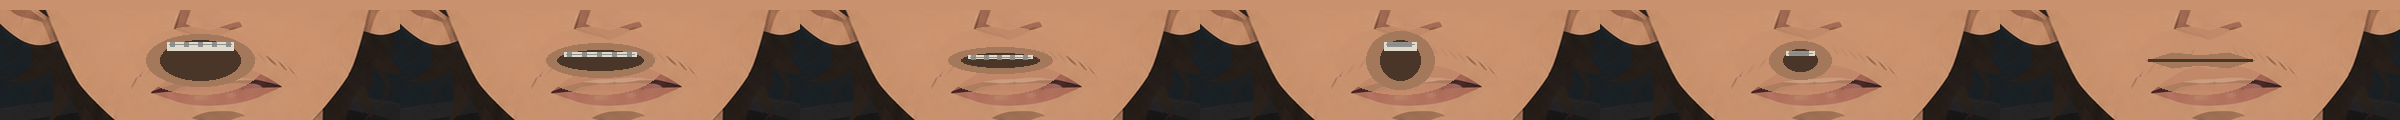
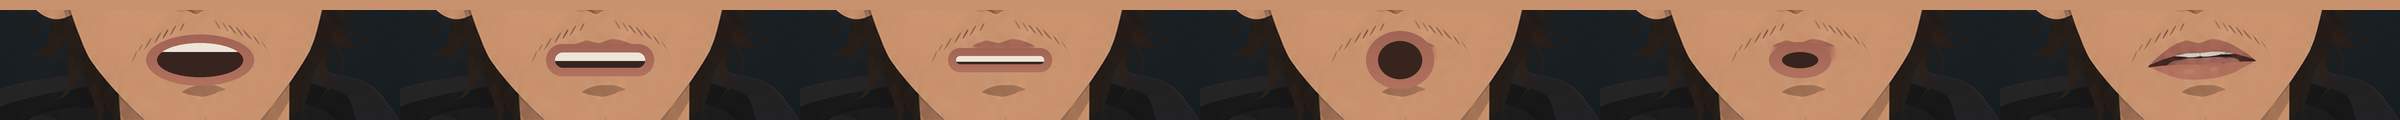
Elenco: folhas de visemas no estilo da Lívia, geradas de cada retrato
Claude-Session: https://claude.ai/code/session_01Ca2uey9G1wANVTd1hU6UsR

diff --git a/src/characters/characters.ts b/src/characters/characters.ts
@@ -16,11 +16,8 @@ const mouth = (cx:number,rimY:number,halfWidth:number,bottom:number,arch=2,maxOp
  * public/characters/<id>/ (expressions/*.jpg, visemes.png). As marcas de olhos e o alinhamento de cada expressão
  * vêm de castMarks.json (scripts/measure-cast.py); a boca usa a do retrato neutro acompanhando o deslocamento dos olhos.
  */
-/**
- * As folhas de visemas do pacote (boca preta oval com dentes) não combinam com o estilo dos retratos e deixam halo sobre barba
- * e bigode. O elenco usa a boca do próprio retrato: o lábio de baixo e o queixo descem em tiras. Ligue quando houver visemas melhores.
- */
-const USE_VISEMES = false
+/** Folhas de visemas do elenco: geradas de cada retrato oficial por scripts/make-cast-visemes.py, no mesmo formato da Lívia. */
+const USE_VISEMES = true
 const cast = (id:string, name:string, m:{cx:number,rim:number,half:number,bottom:number,open:number}):CharacterDef => {
   const marks = castMarks[id as keyof typeof castMarks] as unknown as Record<string,{eyeMid:[number,number],scale:number,eyes:[number,number,number,number][],mouthDy:number}>
   const n = marks.neutral
@@ -39,7 +36,7 @@ const cast = (id:string, name:string, m:{cx:number,rim:number,half:number,bottom
     portrait:{ width:900, height:1200, crop:{ x:80, y:10, w:740, h:800 }, eyeMid:n.eyeMid },
     assets,
     faceMask:`${base}characters/${id}/face-mask.png`,
-    visemes:USE_VISEMES ? { src:`${base}characters/${id}/visemes.png`, cellW:400, cellH:120, order:['A','E','I','O','U','M'], center:[200,60], lipWidth:108, reach:.5 } : undefined,
+    visemes:USE_VISEMES ? { src:`${base}characters/${id}/visemes.png`, cellW:400, cellH:120, order:['A','E','I','O','U','M'], center:[200,60], lipWidth:108, reach:1 } : undefined,
     face:{ cx:n.eyeMid[0], cy:n.eyeMid[1]+18, size:420 }
   }
 }

diff --git a/scripts/make-cast-visemes.py b/scripts/make-cast-visemes.py
@@ -1,0 +1,132 @@
+#!/usr/bin/env python3
+"""
+Gera a folha de visemas (A E I O U M, 6 células de 400x120 = 2400x120) de cada personagem do elenco no mesmo formato e
+com as mesmas medidas da folha da Lívia (public/characters/livia/visemes.png).
+
+Cada célula é o próprio retrato oficial recortado em volta da boca (cabelo, barba, bigode e pele ficam como no retrato),
+com os lábios apagados (inpaint) e a boca da vogal desenhada com as cores dos lábios daquele personagem: anel de lábio,
+interior escuro e dentes. A célula M (lábios fechados) é o recorte original, sem apagar nada.
+
+Uso: python3 scripts/make-cast-visemes.py   (requer pillow, numpy, opencv-python-headless)
+"""
+import numpy as np, cv2
+from PIL import Image, ImageDraw
+
+ROOT = __file__.rsplit('/scripts/', 1)[0]
+# centro da boca (cx), linha entre os lábios (rim) e meia-largura, medidos no retrato neutro (iguais aos de characters.ts)
+CAST = {
+    'caio':   (454, 559, 54),
+    'teo':    (452, 570, 47),
+    'rafael': (450, 576, 45),
+    'cida':   (442, 599, 57),
+    'jorge':  (458, 551, 50),
+}
+# medidas externas das bocas da Lívia (largura, altura) e abertura interna (largura, altura), em px da célula 400x120
+SHAPES = {
+    'A': dict(kind='ellipse', outer=(108, 51), inner=(86, 34), teeth=.26),
+    'E': dict(kind='round',   outer=(108, 32), inner=(90, 15), teeth=.55),
+    'I': dict(kind='round',   outer=(104, 24), inner=(88, 8),  teeth=.7),
+    'O': dict(kind='ellipse', outer=(68, 58),  inner=(44, 38), teeth=0),
+    'U': dict(kind='ellipse', outer=(62, 36),  inner=(36, 16), teeth=0),
+}
+CW, CH, CX, CY = 400, 120, 200, 60
+SS = 4   # supersampling do desenho
+
+def lips_and_skin(img, cx, rim, half):
+    a = img.astype(np.float32)
+    h, w = a.shape[:2]
+    sk = []
+    for sx in (-1, 1):
+        x0 = int(cx + sx * half * 1.08); x1 = int(cx + sx * half * 1.3)
+        sk.append(a[rim - 4:rim + 14, min(x0, x1):max(x0, x1)].reshape(-1, 3))
+    skin = np.median(np.concatenate(sk), axis=0)
+    y0, y1, x0, x1 = rim - 14, rim + 24, int(cx - half * 1.15), int(cx + half * 1.15)
+    reg = a[y0:y1, x0:x1]
+    dist = np.abs(reg - skin).sum(2)
+    sat = reg.max(2) - reg.min(2)
+    m = ((dist > 28) & (sat > 16)).astype(np.uint8)
+    # só o que está ligado ao centro da boca (descarta pintas, barba solta)
+    n, lab = cv2.connectedComponents(m)
+    keep = np.zeros_like(m)
+    for i in range(1, n):
+        ys, xs = np.where(lab == i)
+        if len(ys) > 40 and abs(xs.mean() + x0 - cx) < half * .8:
+            keep[lab == i] = 1
+    keep = cv2.dilate(keep, cv2.getStructuringElement(cv2.MORPH_ELLIPSE, (7, 7)))
+    full = np.zeros((h, w), np.uint8)
+    full[y0:y1, x0:x1] = keep
+    lips = a[full > 0]
+    up = a[(full > 0) & (np.arange(h)[:, None] < rim)]
+    lo = a[(full > 0) & (np.arange(h)[:, None] >= rim)]
+    c_up = np.median(up, axis=0) if len(up) > 20 else skin * .8
+    c_lo = np.median(lo, axis=0) if len(lo) > 20 else skin * .85
+    return full, skin, c_up, c_lo
+
+def crop_cell(img, cx, rim, half):
+    s0 = 108 / (2 * half)
+    ww, hh = CW / s0, CH / s0
+    x0, y0 = cx - CX / s0, rim - CY / s0
+    M = np.float32([[s0, 0, -x0 * s0], [0, s0, -y0 * s0]])
+    return cv2.warpAffine(img, M, (CW, CH), flags=cv2.INTER_LANCZOS4, borderMode=cv2.BORDER_REPLICATE)
+
+def draw_mouth(cell, spec, c_up, c_lo):
+    big = Image.fromarray(cell).resize((CW * SS, CH * SS), Image.LANCZOS)
+    layer = Image.new('RGBA', big.size, (0, 0, 0, 0))
+    d = ImageDraw.Draw(layer)
+    ow, oh = spec['outer']; iw, ih = spec['inner']
+    def shape(w, h, fill):
+        box = [(CX - w / 2) * SS, (CY - h / 2) * SS, (CX + w / 2) * SS, (CY + h / 2) * SS]
+        if spec['kind'] == 'ellipse': d.ellipse(box, fill=fill)
+        else: d.rounded_rectangle(box, radius=min(w, h) / 2 * SS, fill=fill)
+    # anel dos lábios: degradê do lábio de cima ao de baixo
+    ring = Image.new('RGBA', big.size, (0, 0, 0, 0))
+    grad = np.zeros((CH * SS, CW * SS, 4), np.uint8)
+    t = np.clip((np.arange(CH * SS) - (CY - oh / 2) * SS) / max(1, oh * SS), 0, 1)[:, None]
+    col = (np.array(c_up)[None, :] * (1 - t) + np.array(c_lo)[None, :] * t)
+    grad[..., :3] = col[:, None, :].astype(np.uint8); grad[..., 3] = 255
+    mask = Image.new('L', big.size, 0); md = ImageDraw.Draw(mask)
+    box = [(CX - ow / 2) * SS, (CY - oh / 2) * SS, (CX + ow / 2) * SS, (CY + oh / 2) * SS]
+    if spec['kind'] == 'ellipse': md.ellipse(box, fill=255)
+    else: md.rounded_rectangle(box, radius=min(ow, oh) / 2 * SS, fill=255)
+    ring = Image.fromarray(grad); ring.putalpha(mask)
+    big = Image.alpha_composite(big.convert('RGBA'), ring)
+    # interior escuro, com dentes de cima
+    dark = tuple(int(v * .32) for v in c_lo)
+    inner = Image.new('RGBA', big.size, (0, 0, 0, 0)); idr = ImageDraw.Draw(inner)
+    ibox = [(CX - iw / 2) * SS, (CY - ih / 2) * SS, (CX + iw / 2) * SS, (CY + ih / 2) * SS]
+    im = Image.new('L', big.size, 0); imd = ImageDraw.Draw(im)
+    if spec['kind'] == 'ellipse': imd.ellipse(ibox, fill=255)
+    else: imd.rounded_rectangle(ibox, radius=min(iw, ih) / 2 * SS, fill=255)
+    fill = Image.new('RGBA', big.size, dark + (255,))
+    if spec['teeth'] > 0:
+        td = ImageDraw.Draw(fill)
+        th = ih * spec['teeth']
+        td.rectangle([ibox[0], ibox[1], ibox[2], ibox[1] + th * SS], fill=(238, 228, 216, 255))
+    fill.putalpha(im)
+    big = Image.alpha_composite(big, fill)
+    return np.asarray(big.resize((CW, CH), Image.LANCZOS).convert('RGB'))
+
+for cid, (cx, rim, half) in CAST.items():
+    path = f'{ROOT}/public/characters/{cid}/expressions/neutral.jpg'
+    img = np.asarray(Image.open(path).convert('RGB'))
+    mask, skin, c_up, c_lo = lips_and_skin(img, cx, rim, half)
+    clean = cv2.inpaint(img, mask * 255, 6, cv2.INPAINT_TELEA)
+    clean_cell = crop_cell(clean, cx, rim, half)
+    orig_cell = crop_cell(img, cx, rim, half)
+    cells = []
+    for v in 'AEIOU':
+        cells.append(draw_mouth(clean_cell, SHAPES[v], c_up, c_lo))
+    cells.append(orig_cell)   # M: os lábios fechados do próprio retrato
+    # o renderizador mede o tom de pele de cada forma numa faixa no topo da célula (y 3..7, em volta do centro);
+    # essa faixa nunca aparece (a máscara esconde tudo acima dos lábios), então recebe a cor de pele ao lado da boca,
+    # a mesma que ele mede na expressão, e o ganho de cor fica 1
+    s0 = 108 / (2 * half)
+    sx = int(round((half + 16) * s0))
+    side = np.mean([orig_cell[CY + 3:CY + 8, CX - sx - 2:CX - sx + 3].reshape(-1, 3).mean(0),
+                    orig_cell[CY + 3:CY + 8, CX + sx - 2:CX + sx + 3].reshape(-1, 3).mean(0)], axis=0)
+    cells = [np.array(c) for c in cells]
+    for c in cells:
+        c[0:10, :, :] = side.astype(np.uint8)
+    sheet = np.concatenate(cells, axis=1)
+    Image.fromarray(sheet).save(f'{ROOT}/public/characters/{cid}/visemes.png', optimize=True)
+    print(cid, 'ok', 'lábio cima', c_up.astype(int), 'baixo', c_lo.astype(int))

diff --git a/docs/ILLUSTRATED_INTERROGATION.md b/docs/ILLUSTRATED_INTERROGATION.md
@@ -57,3 +57,5 @@ Depois de cada resposta, a resposta aparece em frases no painel e o jogador toca
 `src/interrogation/registry.ts` reúne os depoimentos por personagem: Lívia, Caio, Rafael, Cida, Jorge e Téo (o interrogatório do capítulo 4, com confrontações que exigem moto, cinta bancária e log do alarme). O progresso de cada um fica em `GameSave.depositions[id]` (Lívia segue em `liviaInterrogation`, de saves antigos). Um depoimento concluído marca a pessoa em `interviewed`. Pistas vêm das frases anotadas (`highlights`); só a "Registrar confissão" do Téo garante `confissao_teo` para não travar a história.
 
 Caio, Téo, Rafael, Cida e Jorge usam o pacote do ChatGPT (`expressions/*.jpg` com `tired`, `uncomfortable`, `defensive`, `nervous`, `shaken`, `lying`, `teary`, mais `visemes.png`). `scripts/measure-cast.py` mede olhos e alinhamento de cada imagem (`src/characters/castMarks.json`) e gera `face-mask.png`; `cast(...)` em `characters.ts` monta o personagem. Os depoimentos escolhem só expressões que existem no pacote. Os textos seguem `docs/CASE01_STORY_BIBLE.md`.
+
+As folhas de visemas do elenco (`public/characters/<id>/visemes.png`) são geradas por `scripts/make-cast-visemes.py` a partir do retrato oficial de cada um: recorte da boca com os lábios apagados e a vogal desenhada com as cores dos lábios dele, no mesmo formato e medidas da folha da Lívia. A célula M é o recorte original, com os lábios fechados.
